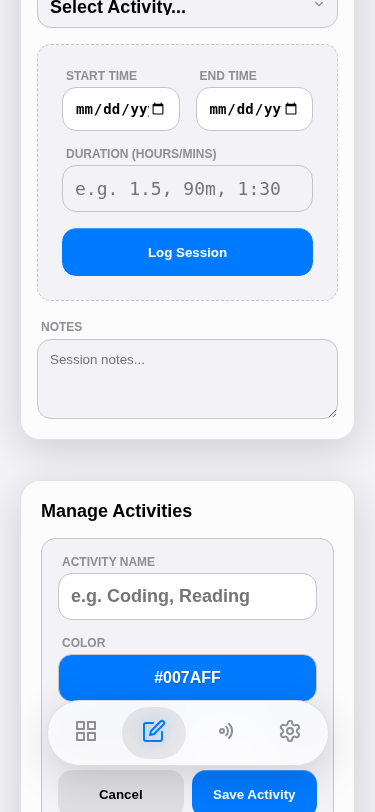
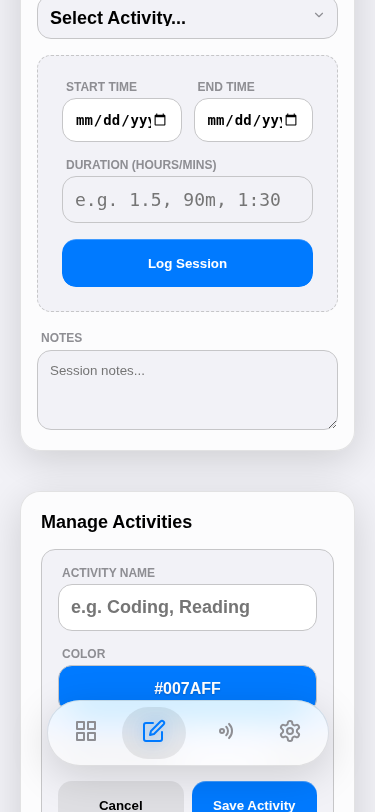
Phase 3.9.5 Fix: Layout Repairs & Activity Manager Logic
- Fix Time Tracker input overflow using strict CSS Grid and box-sizing.
- Update Activity Manager to include frequency selector and improved badge styling.
- Strictly enforce inline Vanilla CSS (no Tailwind).
- Ensure Activity Manager logic saves correct metric schema.

diff --git a/src/components/logger/ActivityManager.jsx b/src/components/logger/ActivityManager.jsx
@@ -3,6 +3,7 @@ import { StorageContext } from '../../context/StorageContext';
 import { OrbitButton } from '../ui/OrbitButton';
 import { Icons } from '../../components/ui/Icons';
 import Glass from '../ui/Glass';
+import SegmentedControl from '../ui/SegmentedControl';
 
 export const ActivityManager = () => {
   const { metrics, addMetric } = useContext(StorageContext);
@@ -13,6 +14,7 @@ export const ActivityManager = () => {
   const [color, setColor] = useState('#007AFF');
   const [hasGoal, setHasGoal] = useState(false);
   const [goalValue, setGoalValue] = useState(0);
+  const [frequency, setFrequency] = useState('daily');
 
   // Filter for duration metrics
   const activities = metrics.filter(m => m.type === 'duration');
@@ -31,7 +33,7 @@ export const ActivityManager = () => {
       label: name,
       color: color,
       goal: finalGoal,
-      frequency: 'daily',
+      frequency: hasGoal ? frequency : 'daily',
       status: 'active'
     });
 
@@ -40,6 +42,7 @@ export const ActivityManager = () => {
     setColor('#007AFF');
     setHasGoal(false);
     setGoalValue(0);
+    setFrequency('daily');
     setIsCreating(false);
   };
 
@@ -52,7 +55,16 @@ export const ActivityManager = () => {
           <OrbitButton
             onClick={() => setIsCreating(true)}
             variant="secondary"
-            style={{ width: 'auto', height: '32px', padding: '0 12px', fontSize: '0.75rem' }}
+            style={{
+              width: 'auto',
+              height: 'auto',
+              padding: '4px 10px',
+              fontSize: '11px',
+              borderRadius: '20px',
+              backgroundColor: 'rgba(0,0,0,0.05)',
+              fontWeight: '600',
+              whiteSpace: 'nowrap'
+            }}
           >
             New
           </OrbitButton>
@@ -125,16 +137,27 @@ export const ActivityManager = () => {
              </div>
 
              {hasGoal && (
-               <div className="fade-in" style={{ display: 'flex', flexDirection: 'column', gap: '4px' }}>
-                 <label style={{ fontSize: '12px', fontWeight: 'bold', color: 'var(--text-secondary)', textTransform: 'uppercase', marginLeft: '4px' }}>Daily Goal (Hours)</label>
-                 <input
-                   type="number"
-                   value={goalValue}
-                   onChange={(e) => setGoalValue(e.target.value)}
-                   style={{ width: '100%', padding: '12px', backgroundColor: 'var(--card-bg)', border: '1px solid var(--separator)', borderRadius: '14px', fontFamily: 'monospace', fontSize: '1.125rem', outline: 'none' }}
-                   step="0.1"
-                   min="0"
-                 />
+               <div className="fade-in" style={{ display: 'flex', flexDirection: 'column', gap: '8px' }}>
+
+                 <div style={{ width: '100%' }}>
+                    <SegmentedControl
+                       options={[{ label: 'Daily', value: 'daily' }, { label: 'Weekly', value: 'weekly' }]}
+                       value={frequency}
+                       onChange={setFrequency}
+                    />
+                 </div>
+
+                 <div style={{ display: 'flex', flexDirection: 'column', gap: '4px' }}>
+                   <label style={{ fontSize: '12px', fontWeight: 'bold', color: 'var(--text-secondary)', textTransform: 'uppercase', marginLeft: '4px' }}>Target (Hours)</label>
+                   <input
+                     type="number"
+                     value={goalValue}
+                     onChange={(e) => setGoalValue(e.target.value)}
+                     style={{ width: '100%', padding: '12px', backgroundColor: 'var(--card-bg)', border: '1px solid var(--separator)', borderRadius: '14px', fontFamily: 'monospace', fontSize: '1.125rem', outline: 'none' }}
+                     step="0.1"
+                     min="0"
+                   />
+                 </div>
                </div>
              )}
           </div>
@@ -177,7 +200,7 @@ export const ActivityManager = () => {
 
                   {act.goal > 0 ? (
                     <div style={{ padding: '4px 8px', backgroundColor: 'rgba(0,122,255,0.1)', color: 'var(--blue)', fontSize: '0.75rem', fontWeight: 'bold', borderRadius: '6px' }}>
-                      Target: {act.goal}h
+                      {act.goal}h/{act.frequency === 'weekly' ? 'wk' : 'day'}
                     </div>
                   ) : (
                     <div style={{ padding: '4px 8px', backgroundColor: 'rgba(60,60,67,0.1)', color: 'var(--text-secondary)', fontSize: '0.75rem', fontWeight: 'bold', borderRadius: '6px' }}>

diff --git a/src/components/logger/TimeTracker.jsx b/src/components/logger/TimeTracker.jsx
@@ -314,7 +314,14 @@ export const TimeTracker = ({ metricId }) => {
           /* Manual Entry Inputs - Refactored Layout */
           <div style={{ display: 'flex', flexDirection: 'column', width: '100%' }}>
 
-            <div style={{ display: 'grid', gridTemplateColumns: '1fr 1fr', gap: '16px', marginBottom: '16px' }}>
+            <div style={{
+                display: 'grid',
+                gridTemplateColumns: '1fr 1fr',
+                gap: '12px',
+                marginBottom: '16px',
+                width: '100%',
+                boxSizing: 'border-box'
+            }}>
               <div style={{ display: 'flex', flexDirection: 'column', gap: '4px', minWidth: 0 }}>
                 <label className="text-secondary uppercase" style={{ fontSize: '12px', fontWeight: 'bold', marginLeft: '4px' }}>Start Time</label>
                 <input
